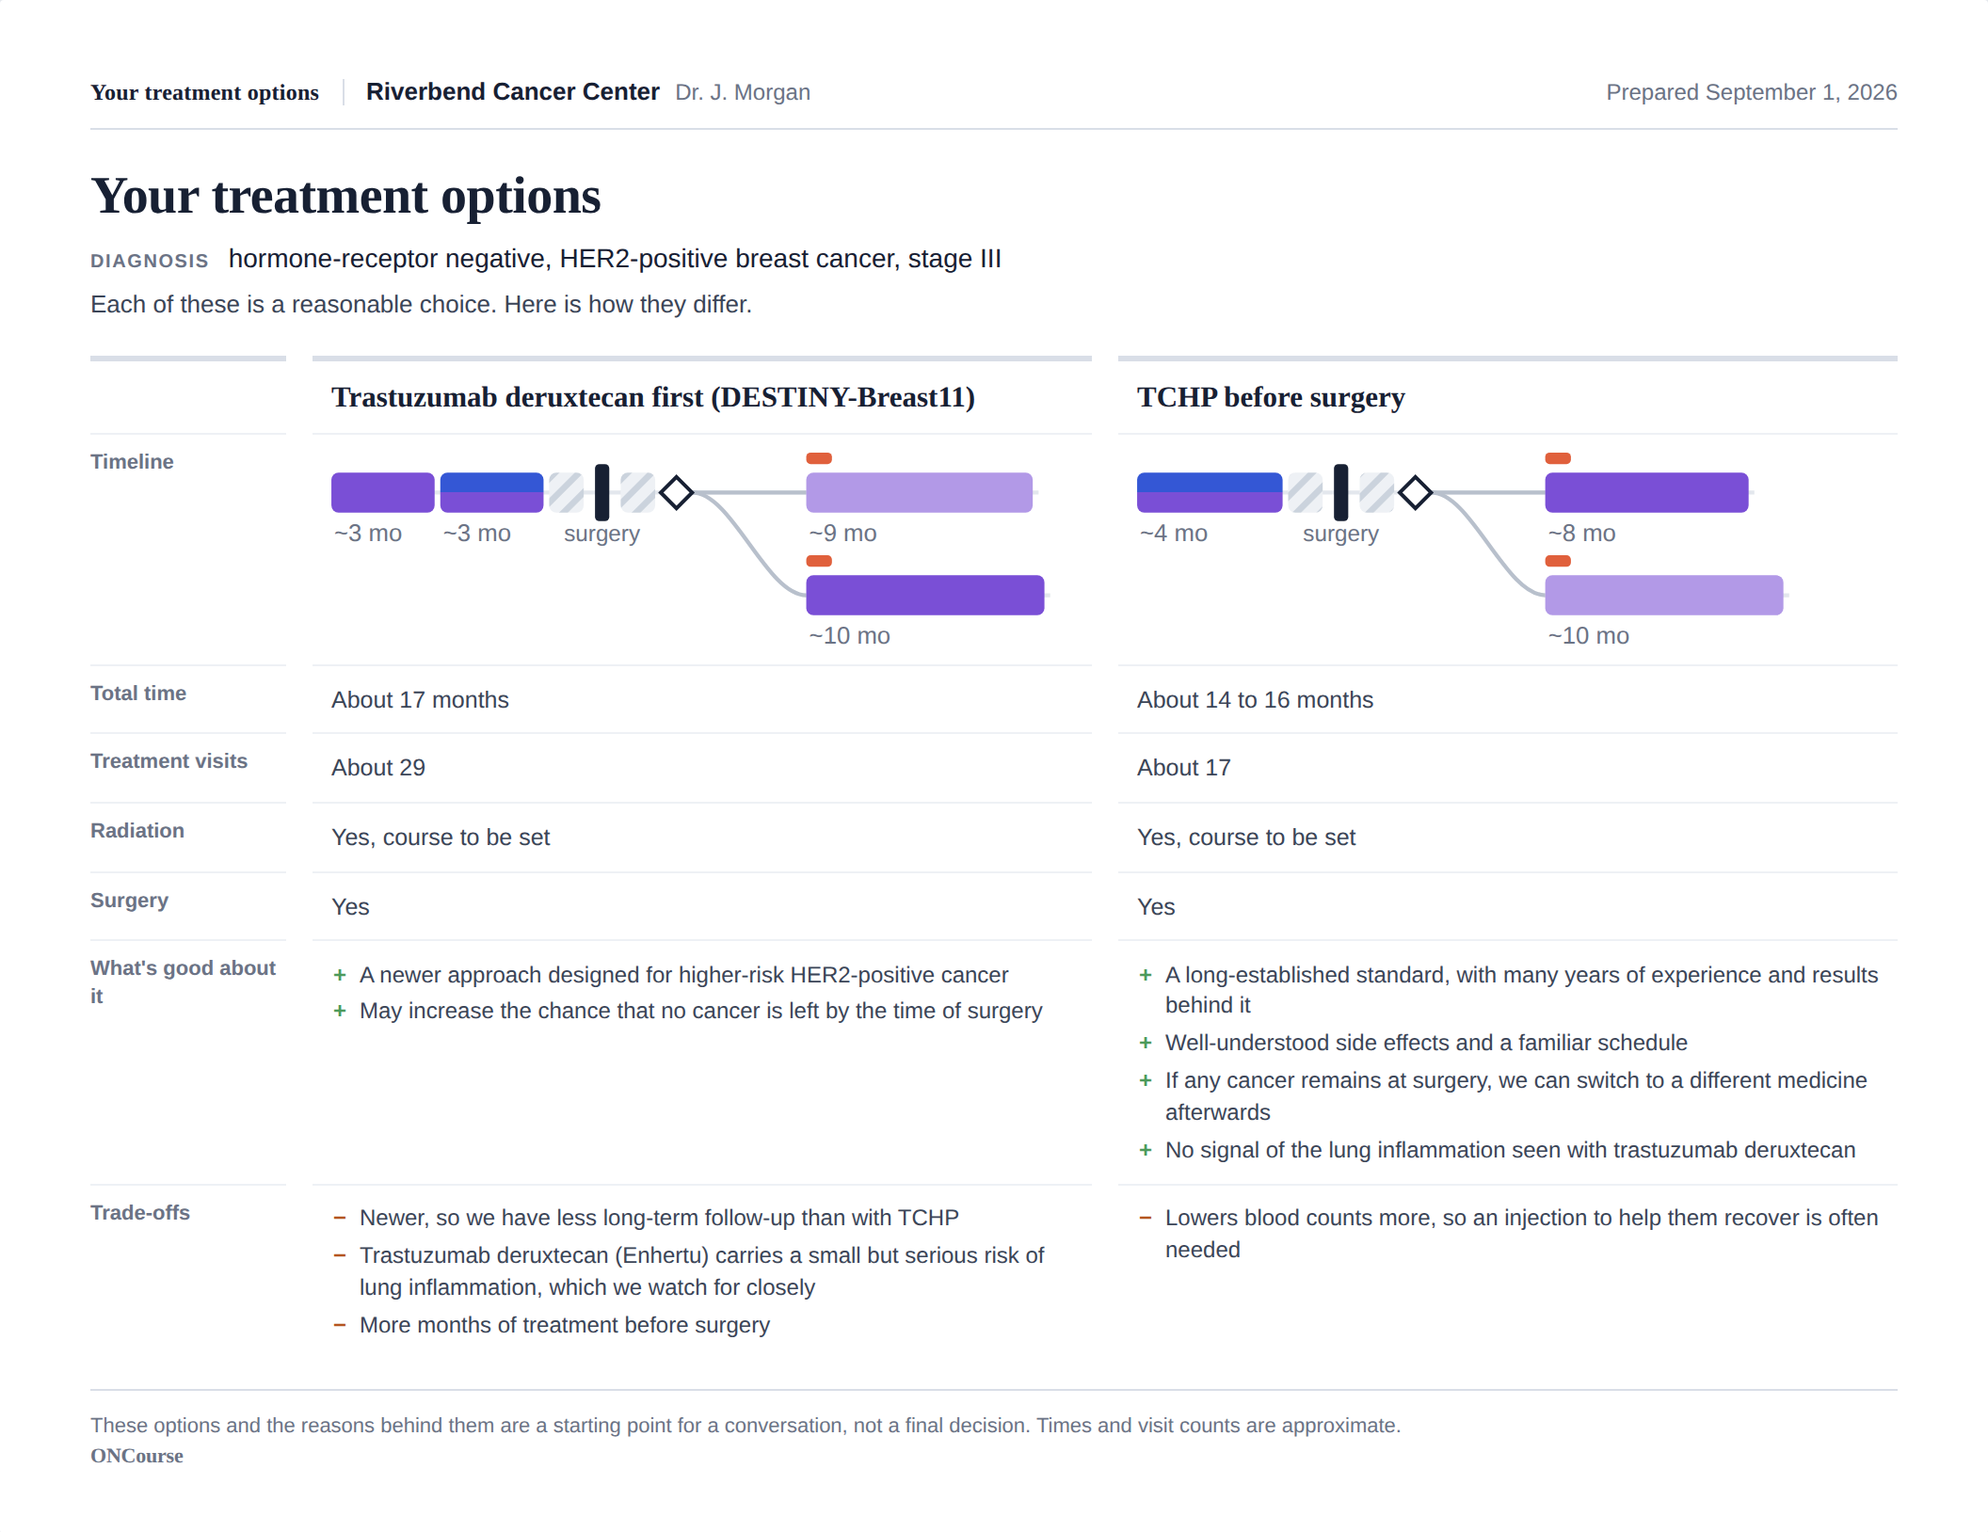
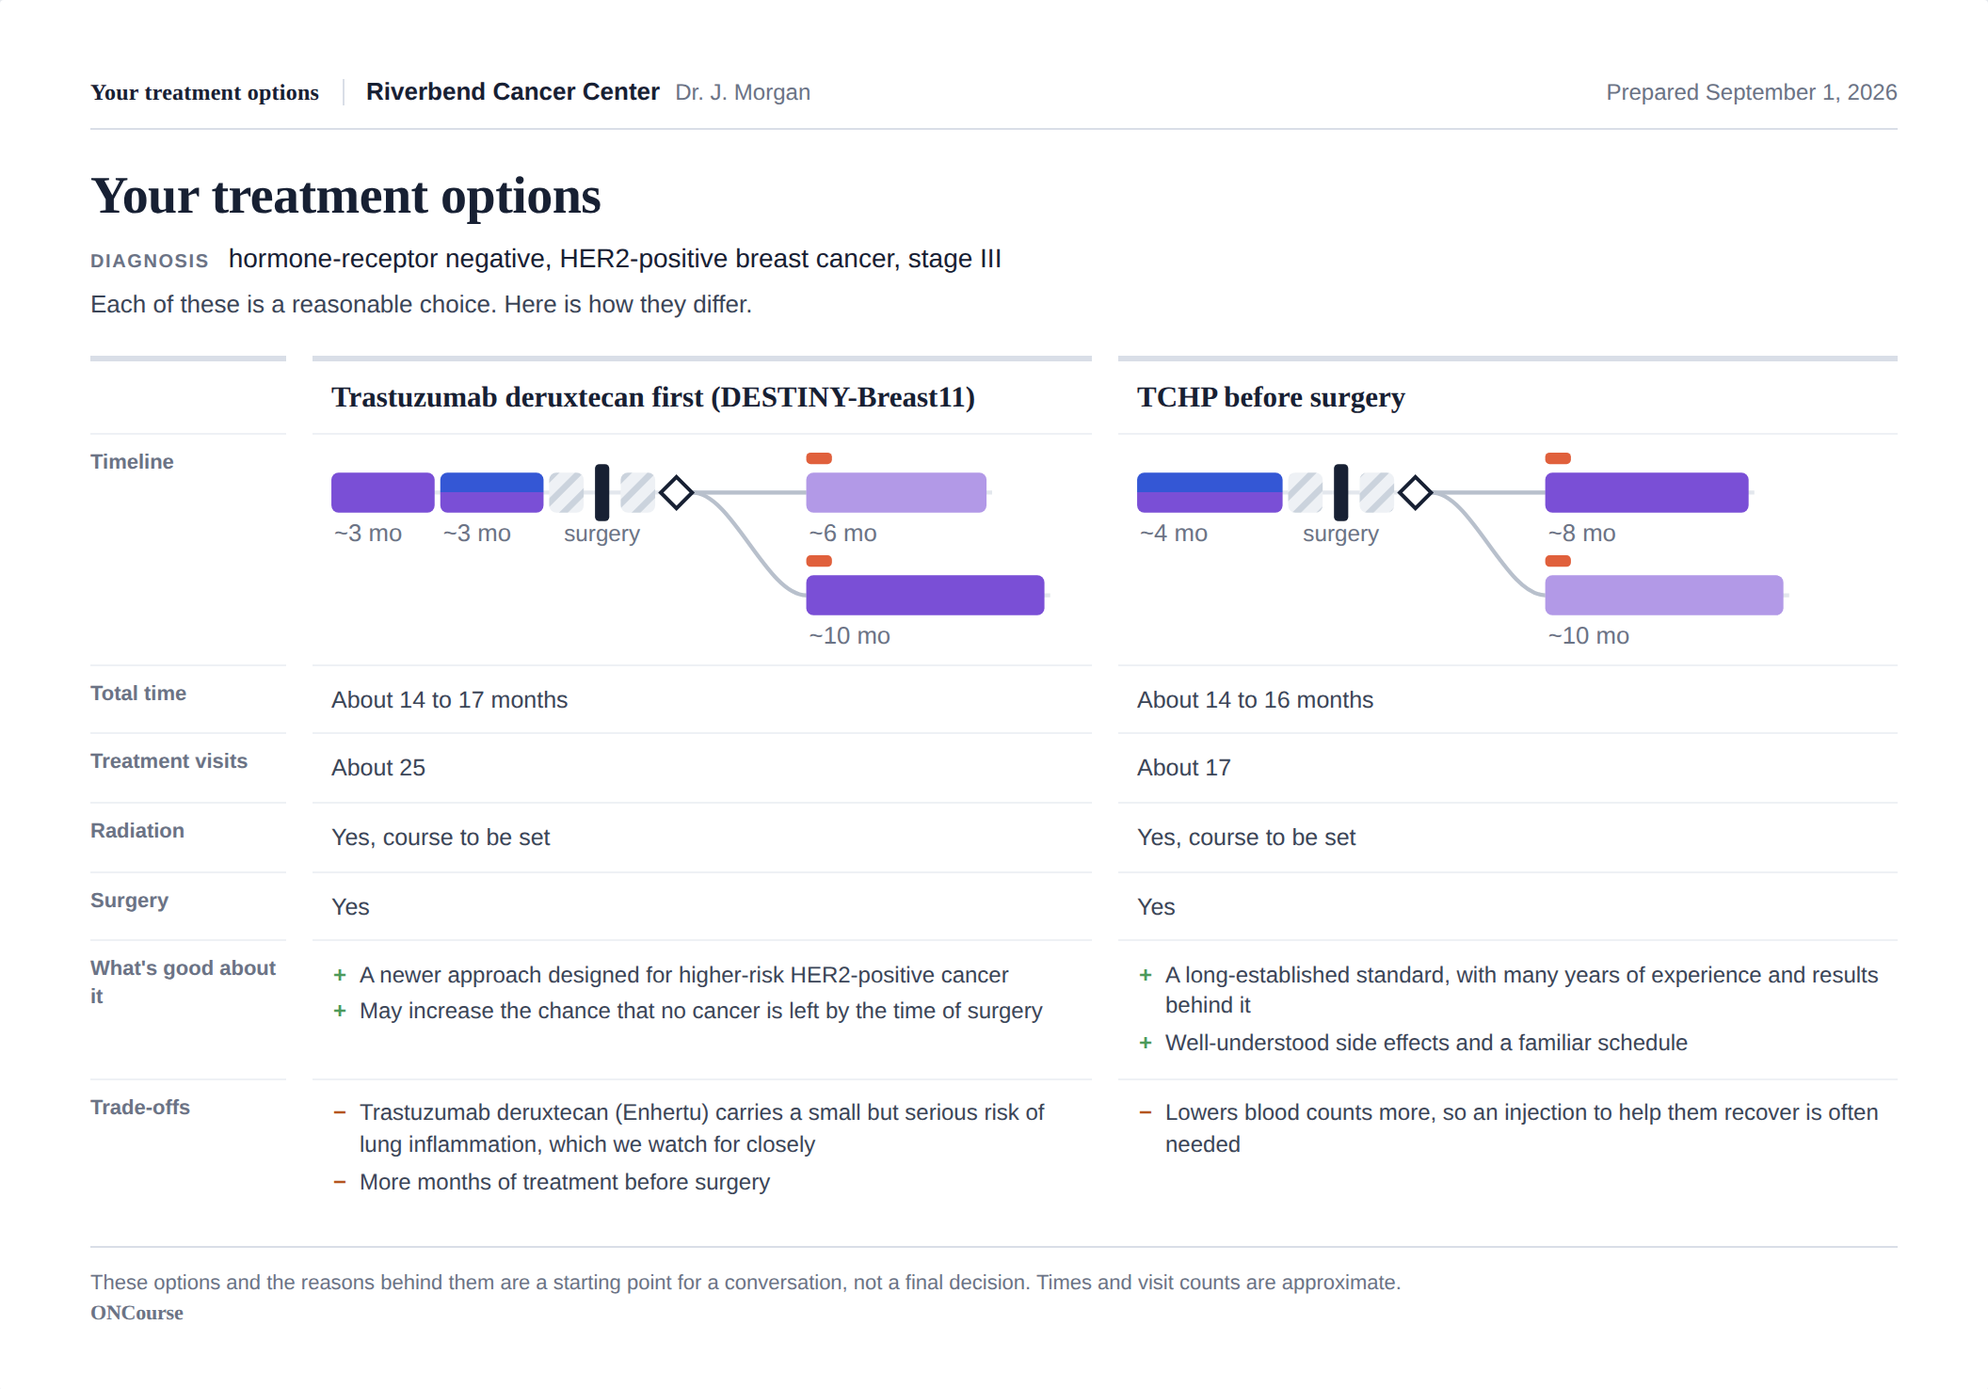
Correct DESTINY-Breast11 adjuvant length; rebalance and extend examples
Rechecking the comparison totals against the literature turned up an
arithmetic error in the pathway itself, not just the example.

DESTINY-Breast11 said "to complete about one year" while running 4
(T-DXd) + 4 (THP) + 13 adjuvant q3w cycles, which is 63 weeks. TCHP
already counted its year correctly at 6 + 11 = 17 cycles. Adjuvant
trastuzumab + pertuzumab is now 9 cycles, giving 17 in total, and the
step text says the year counts what was given before surgery. The
comparison's headline number moves from "about 17 months" against "about
14 to 16 months" to "about 14 to 17" against "about 14 to 16", which is
what the two regimens actually differ by.

Harbeck et al., Ann Oncol 2026;37:166-179 confirms the neoadjuvant
schedule (T-DXd x4 then THP x4) and replaces the placeholder reference.
Worth noting in the log: the trial's randomised comparator was ddAC-THP,
not TCHP, so the comparison is a practical one rather than a head-to-head
result, and the page claims no efficacy difference between them.

Comparison rebalanced as requested: dropped "newer, so less long-term
follow-up", "if any cancer remains we can switch", and "no signal of lung
inflammation". The last is well dropped on the evidence too, since the
trial reported ILD at 4.4% for T-DXd-THP against 5.1% for ddAC-THP.
Now two advantages each, and two trade-offs against one.

Landing page: the hero example switches between three cancers (breast,
bladder, stomach and GEJ) via a labelled tab strip, with swipe on touch
[…]

diff --git a/index.html b/index.html
@@ -26,7 +26,19 @@
     <p class="byline"><b>A tool for oncologists, built by one.</b> Physicians draw the map in minutes; patients and families take it home.</p>
     <div class="ctas"><a class="btn" href="app.html#r=kn522&demo=1" style="color:#fff">See an example</a><a class="btn sec" href="app.html">Open ONCourse</a><small>Free. Nothing you type leaves your browser.</small></div>
   </div>
-  <a class="heroimg" href="app.html#r=kn522&demo=1" aria-label="Open the example treatment map"><img src="hero.png" alt="An ONCourse treatment map for stage II–III triple-negative breast cancer: chemo-immunotherapy, surgery, a pathology decision point, then immunotherapy" width="2112" height="2732"></a>
+  <div class="heroswitch" id="heroswitch">
+    <div class="hstabs" role="tablist" aria-label="Example treatment maps">
+      <button type="button" role="tab" id="hstab-0" aria-controls="hs-0" aria-selected="true" data-i="0">Breast</button>
+      <button type="button" role="tab" id="hstab-1" aria-controls="hs-1" aria-selected="false" data-i="1">Bladder</button>
+      <button type="button" role="tab" id="hstab-2" aria-controls="hs-2" aria-selected="false" data-i="2">Stomach and GEJ</button>
+    </div>
+    <div class="hsview" id="hsview">
+      <a class="heroimg hsslide on" id="hs-0" role="tabpanel" aria-labelledby="hstab-0" href="app.html#r=kn522&demo=1" aria-label="Open the triple-negative breast cancer example"><img src="hero.png" alt="An ONCourse treatment map for stage II to III triple-negative breast cancer: chemo-immunotherapy, surgery, a pathology decision point, then immunotherapy" width="2112" height="2732"></a>
+      <a class="heroimg hsslide" id="hs-1" role="tabpanel" aria-labelledby="hstab-1" href="app.html#r=ev303&demo=1" aria-label="Open the muscle-invasive bladder cancer example"><img data-src="hero-ev303.png" alt="An ONCourse treatment map for muscle-invasive bladder cancer: enfortumab vedotin with pembrolizumab, cystectomy, then more of both" width="2112" height="1840"></a>
+      <a class="heroimg hsslide" id="hs-2" role="tabpanel" aria-labelledby="hstab-2" href="app.html#r=flot&demo=1" aria-label="Open the stomach and gastroesophageal junction cancer example"><img data-src="hero-flot.png" alt="An ONCourse treatment map for stomach or gastroesophageal junction cancer: FLOT chemotherapy with durvalumab, surgery, then more of both" width="2112" height="2070"></a>
+    </div>
+    <p class="hscap" id="hscap" aria-live="polite">Triple-negative breast cancer, stage II to III &middot; KEYNOTE-522</p>
+  </div>
 </div></div>
 
 <div class="trust"><div class="wrap">
@@ -138,7 +150,7 @@
 </div><div class="wrap" style="margin-top:38px">
   <h2 style="font-size:24px">Comparing two options</h2>
   <p class="sub">When more than one regimen is reasonable, the decision visit is easier with both on one time scale. Months, visits, and the trade-offs, side by side.</p>
-  <div class="imgcard" style="margin-top:16px"><img src="compare.png" alt="A comparison page for stage III HER2-positive breast cancer, showing two regimens side by side with their timelines, total months, visit counts, advantages and trade-offs" width="2112" height="1628"></div>
+  <div class="imgcard" style="margin-top:16px"><img src="compare.png" alt="A comparison page for stage III HER2-positive breast cancer, showing two regimens side by side with their timelines, total months, visit counts, advantages and trade-offs" width="2112" height="1476"></div>
   <p class="more-link"><a class="btn small" href="app.html#cmp=demo" style="color:#fff">Open this comparison</a> <a class="btn sec small" href="app.html">Build your own</a></p>
 </div></section>
 
@@ -188,6 +200,40 @@
   <div>ONCourse is an educational aid for conversations between patients and their care teams. It is not medical advice and does not replace your clinic's appointment schedule. See the <a href="disclaimer.html">disclaimer and terms of use</a>.</div>
   <div><a href="how-it-works.html">How it works</a> · <a href="about.html">About</a> · <a href="updates.html">Updates</a> · <a href="references.html">References</a> · <a href="disclaimer.html">Disclaimer</a> · <span id="ver"></span></div>
 </div></footer>
+<script>
+(function(){
+  var root = document.getElementById('heroswitch'); if (!root) return;
+  var caps = ['Triple-negative breast cancer, stage II to III \u00b7 KEYNOTE-522',
+              'Muscle-invasive bladder cancer, cisplatin not an option \u00b7 KEYNOTE-905 / EV-303',
+              'Stomach or gastroesophageal junction cancer, stage II to III \u00b7 FLOT4 / MATTERHORN'];
+  var tabs = [].slice.call(root.querySelectorAll('[role=tab]'));
+  var slides = [].slice.call(root.querySelectorAll('.hsslide'));
+  var cap = document.getElementById('hscap');
+  var at = 0;
+  function show(i, focus){
+    at = (i + slides.length) % slides.length;
+    slides.forEach(function(s, k){ s.classList.toggle('on', k === at); });
+    var img = slides[at].querySelector('img');
+    if (img && img.dataset.src){ img.src = img.dataset.src; delete img.dataset.src; }
+    tabs.forEach(function(t, k){ t.setAttribute('aria-selected', k === at ? 'true' : 'false'); });
+    cap.textContent = caps[at];
+    if (focus) tabs[at].focus();
+  }
+  tabs.forEach(function(t){ t.addEventListener('click', function(){ show(+t.dataset.i); }); });
+  root.querySelector('.hstabs').addEventListener('keydown', function(e){
+    if (e.key === 'ArrowRight'){ e.preventDefault(); show(at + 1, true); }
+    if (e.key === 'ArrowLeft'){ e.preventDefault(); show(at - 1, true); }
+  });
+  var x0 = null;
+  var view = document.getElementById('hsview');
+  view.addEventListener('touchstart', function(e){ x0 = e.changedTouches[0].clientX; }, {passive:true});
+  view.addEventListener('touchend', function(e){
+    if (x0 === null) return;
+    var dx = e.changedTouches[0].clientX - x0; x0 = null;
+    if (Math.abs(dx) > 45) show(at + (dx < 0 ? 1 : -1));
+  }, {passive:true});
+})();
+</script>
 <script src="regimens.js"></script>
 <script>document.getElementById('ver').textContent = 'Version ' + APP_VERSION;</script>
 <script>

diff --git a/regimens.js b/regimens.js
@@ -63,7 +63,7 @@ const LIBRARY = [
   ]
 },
 {
-  id:'db11', plan:'HER2-targeted therapy around surgery', group:'HER2-positive', added:'2026-08-31', reviewed:'2026-08-31', reviewedBy:'AI-assisted source check; physician review pending', refs:[{t:'DESTINY-Breast11 primary publication (Annals of Oncology, 2026)',q:'DESTINY-Breast11 trastuzumab deruxtecan neoadjuvant'},{t:'Geyer CE et al. DESTINY-Breast05: T-DXd vs T-DM1 for residual disease. NEJM 2026',q:'DESTINY-Breast05 trastuzumab deruxtecan residual invasive disease'}], disease:'breast', name:'DESTINY-Breast11: T-DXd then THP, surgery, HER2 therapy',
+  id:'db11', plan:'HER2-targeted therapy around surgery', group:'HER2-positive', added:'2026-08-31', reviewed:'2026-08-31', reviewedBy:'AI-assisted source check; physician review pending', refs:[{t:'Harbeck N et al. Neoadjuvant trastuzumab deruxtecan alone or followed by paclitaxel, trastuzumab, and pertuzumab for high-risk HER2-positive early breast cancer (DESTINY-Breast11). Annals of Oncology 2026;37:166-179',q:'DESTINY-Breast11 Harbeck neoadjuvant trastuzumab deruxtecan paclitaxel trastuzumab pertuzumab Annals of Oncology'},{t:'Geyer CE et al. DESTINY-Breast05: T-DXd vs T-DM1 for residual disease. NEJM 2026',q:'DESTINY-Breast05 trastuzumab deruxtecan residual invasive disease'}], disease:'breast', name:'DESTINY-Breast11: T-DXd then THP, surgery, HER2 therapy',
   trial:'DESTINY-Breast11', summary:'HER2-positive, high-risk stage II–III. T-DXd ×4, THP ×4, surgery, adjuvant HER2 therapy by response.',
   title:'HER2-targeted treatment before surgery, then continued after',
   subtitle:'HER2-positive breast cancer, stage II to III',
@@ -80,7 +80,7 @@ const LIBRARY = [
         plain:'The report tells us whether any cancer remained. HER2-targeted treatment continues either way, to complete about one year in total.',
         branches:[
           Br('No remaining cancer (complete response)', [
-            P({ name:'Trastuzumab + pertuzumab', short:'HER2 antibodies (HP)', mods:['targeted'], cycleDays:21, cycles:13, plain:'The two HER2 antibodies continue every 3 weeks, without chemotherapy, to complete one year. Often given as an injection under the skin.' }),
+            P({ name:'Trastuzumab + pertuzumab', short:'HER2 antibodies (HP)', mods:['targeted'], cycleDays:21, cycles:9, plain:'The two HER2 antibodies continue every 3 weeks, without chemotherapy, to complete about one year of HER2-targeted treatment counting the treatment given before surgery. Often given as an injection under the skin.' }),
             RADIATION_ALONGSIDE(),
             ENDOCRINE_ALONGSIDE(),
           ]),
@@ -1031,15 +1031,17 @@ const COMPARE_EXAMPLE = {
   options:[
     { name:'Trastuzumab deruxtecan first (DESTINY-Breast11)', regimenId:'db11',
       pros:'A newer approach designed for higher-risk HER2-positive cancer\nMay increase the chance that no cancer is left by the time of surgery',
-      cons:'Newer, so we have less long-term follow-up than with TCHP\nTrastuzumab deruxtecan (Enhertu) carries a small but serious risk of lung inflammation, which we watch for closely\nMore months of treatment before surgery' },
+      cons:'Trastuzumab deruxtecan (Enhertu) carries a small but serious risk of lung inflammation, which we watch for closely\nMore months of treatment before surgery' },
     { name:'TCHP before surgery', regimenId:'tchp',
-      pros:'A long-established standard, with many years of experience and results behind it\nWell-understood side effects and a familiar schedule\nIf any cancer remains at surgery, we can switch to a different medicine afterwards\nNo signal of the lung inflammation seen with trastuzumab deruxtecan',
+      pros:'A long-established standard, with many years of experience and results behind it\nWell-understood side effects and a familiar schedule',
       cons:'Lowers blood counts more, so an injection to help them recover is often needed' },
   ],
 };
 
-const APP_VERSION = '0.9.1';
+const APP_VERSION = '0.9.2';
 const CHANGELOG = [
+  { date:'2026-09-01', text:'DESTINY-Breast11 corrected: the HER2 antibodies after surgery now run for 9 cycles rather than 13, so the pathway adds up to the about one year its own description states, counting the treatment given before surgery. The reference is now the primary publication (Annals of Oncology 2026;37:166-179) in place of a placeholder.' },
+  { date:'2026-09-01', text:'The landing page example now switches between three cancers: triple-negative breast (KEYNOTE-522), muscle-invasive bladder (KEYNOTE-905 / EV-303), and stomach or gastroesophageal junction (FLOT4 / MATTERHORN). The worked comparison has been rebalanced so neither option carries more argument than the other.' },
   { date:'2026-09-01', text:'Map labels now all sit above their bars. Treatment given alongside another step put its label to the right of the bar, which read differently from every other step and could be covered by whatever followed it. Branch labels at a decision point are no longer crossed by the line leading to them. Maps with two alongside treatments are a little taller so each has room for its own label.' },
   { date:'2026-09-01', text:'Treatment that runs alongside another step can now be set to begin when that step finishes rather than at the same time, and the map draws it in that position. In KEYNOTE-522, capecitabine after surgery now appears after the radiation course instead of beside it, matching what the step text says.' },
   { date:'2026-09-01', text:'New How it works page walking through the builder step by step, including a worked comparison for stage III HER2-positive breast cancer and an example of building a ctDNA-guided pathway from scratch. The site now reads correctly on a phone; the header previously forced the whole page to zoom out. The regimen table lists the newest additions first.' },

diff --git a/site.css b/site.css
@@ -78,6 +78,20 @@ table.reg td{padding:8px 8px 8px 0;border-bottom:1px solid var(--line-2);vertica
 .refs ul{margin:0 0 6px;padding-left:0;list-style:none}
 .refs li{padding:4px 0;font-size:14.5px}
 .refs li small{color:var(--muted);display:block}
+/* hero example switcher: labelled tabs on every screen, swipe on touch */
+.heroswitch{margin-top:30px}
+.hstabs{display:flex;justify-content:center;gap:6px;flex-wrap:wrap;margin-bottom:14px}
+.hstabs button{appearance:none;border:1px solid var(--line);background:#fff;color:var(--ink-2);font:600 13.5px/1 inherit;padding:9px 15px;border-radius:999px;cursor:pointer}
+.hstabs button:hover{border-color:var(--ink-2);color:var(--ink)}
+.hstabs button[aria-selected=true]{background:var(--ink);border-color:var(--ink);color:#fff}
+.hsview{position:relative}
+/* .heroimg sets display:block later in this file, so scope these to win */
+.hsview .hsslide{display:none}
+.hsview .hsslide.on{display:block}
+.heroswitch .heroimg{margin-top:0}
+.hscap{margin:13px 0 0;text-align:center;font-size:13.5px;color:var(--muted)}
+@media (max-width:760px){ .hstabs button{padding:8px 12px;font-size:13px} .hscap{font-size:12.5px} }
+
 /* numbered walkthrough on the guide page */
 ol.steps-guide{margin:14px 0 18px;padding-left:0;list-style:none;counter-reset:sg}
 ol.steps-guide li{counter-increment:sg;position:relative;padding:0 0 12px 40px;line-height:1.55}

diff --git a/verification-log.md b/verification-log.md
@@ -140,3 +140,24 @@ references as known, and were not individually re-fetched.
   neoadjuvant therapy for triple-negative breast cancer. Treated as practice-variable.
 - NATALEE overall survival data were still immature at the 2025 final iDFS analysis;
   the pathway makes no survival claim.
+
+---
+## DESTINY-Breast11 correction, September 1, 2026 (v0.9.2)
+
+- **DESTINY-Breast11** `db11` **(fetched)** — Harbeck N et al., *Ann Oncol* 2026;37:166-179
+  (doi:10.1016/j.annonc.2025.10.019). Confirms the neoadjuvant schedule already in the app:
+  T-DXd x4 followed by THP x4 (the trial randomised T-DXd x8, T-DXd-THP 4+4, and ddAC-THP 4+4;
+  the T-DXd-THP arm is the one modelled). pCR 67.3% vs 56.3% for ddAC-THP; in the
+  HR-negative subgroup 83.1% vs 67.1%. **CORRECTED:** adjuvant trastuzumab + pertuzumab
+  reduced from 13 cycles to 9. The pathway's own text said "to complete about one year",
+  but 4 + 4 + 13 q3w cycles is 63 weeks. Nine adjuvant cycles gives 17 cycles (51 weeks),
+  matching the way the TCHP pathway already counted its year (6 + 11). The reference was
+  also replaced with the real citation, which had been a placeholder.
+- **Comparison example** — note that DESTINY-Breast11's randomised comparator was
+  **ddAC-THP, not TCHP**. The worked comparison sets DB11 against TCHP because that is the
+  practical choice a clinic faces; it is not a head-to-head result from the trial, and the
+  page makes no efficacy claim between the two.
+- **Not carried into the comparison:** the trial reported adjudicated drug-related
+  interstitial lung disease at 4.4% for T-DXd-THP and 5.1% for ddAC-THP, i.e. similar
+  across arms. The retained trade-off line about lung inflammation reflects the known
+  class risk and the monitoring it requires, not a difference demonstrated in this trial.
